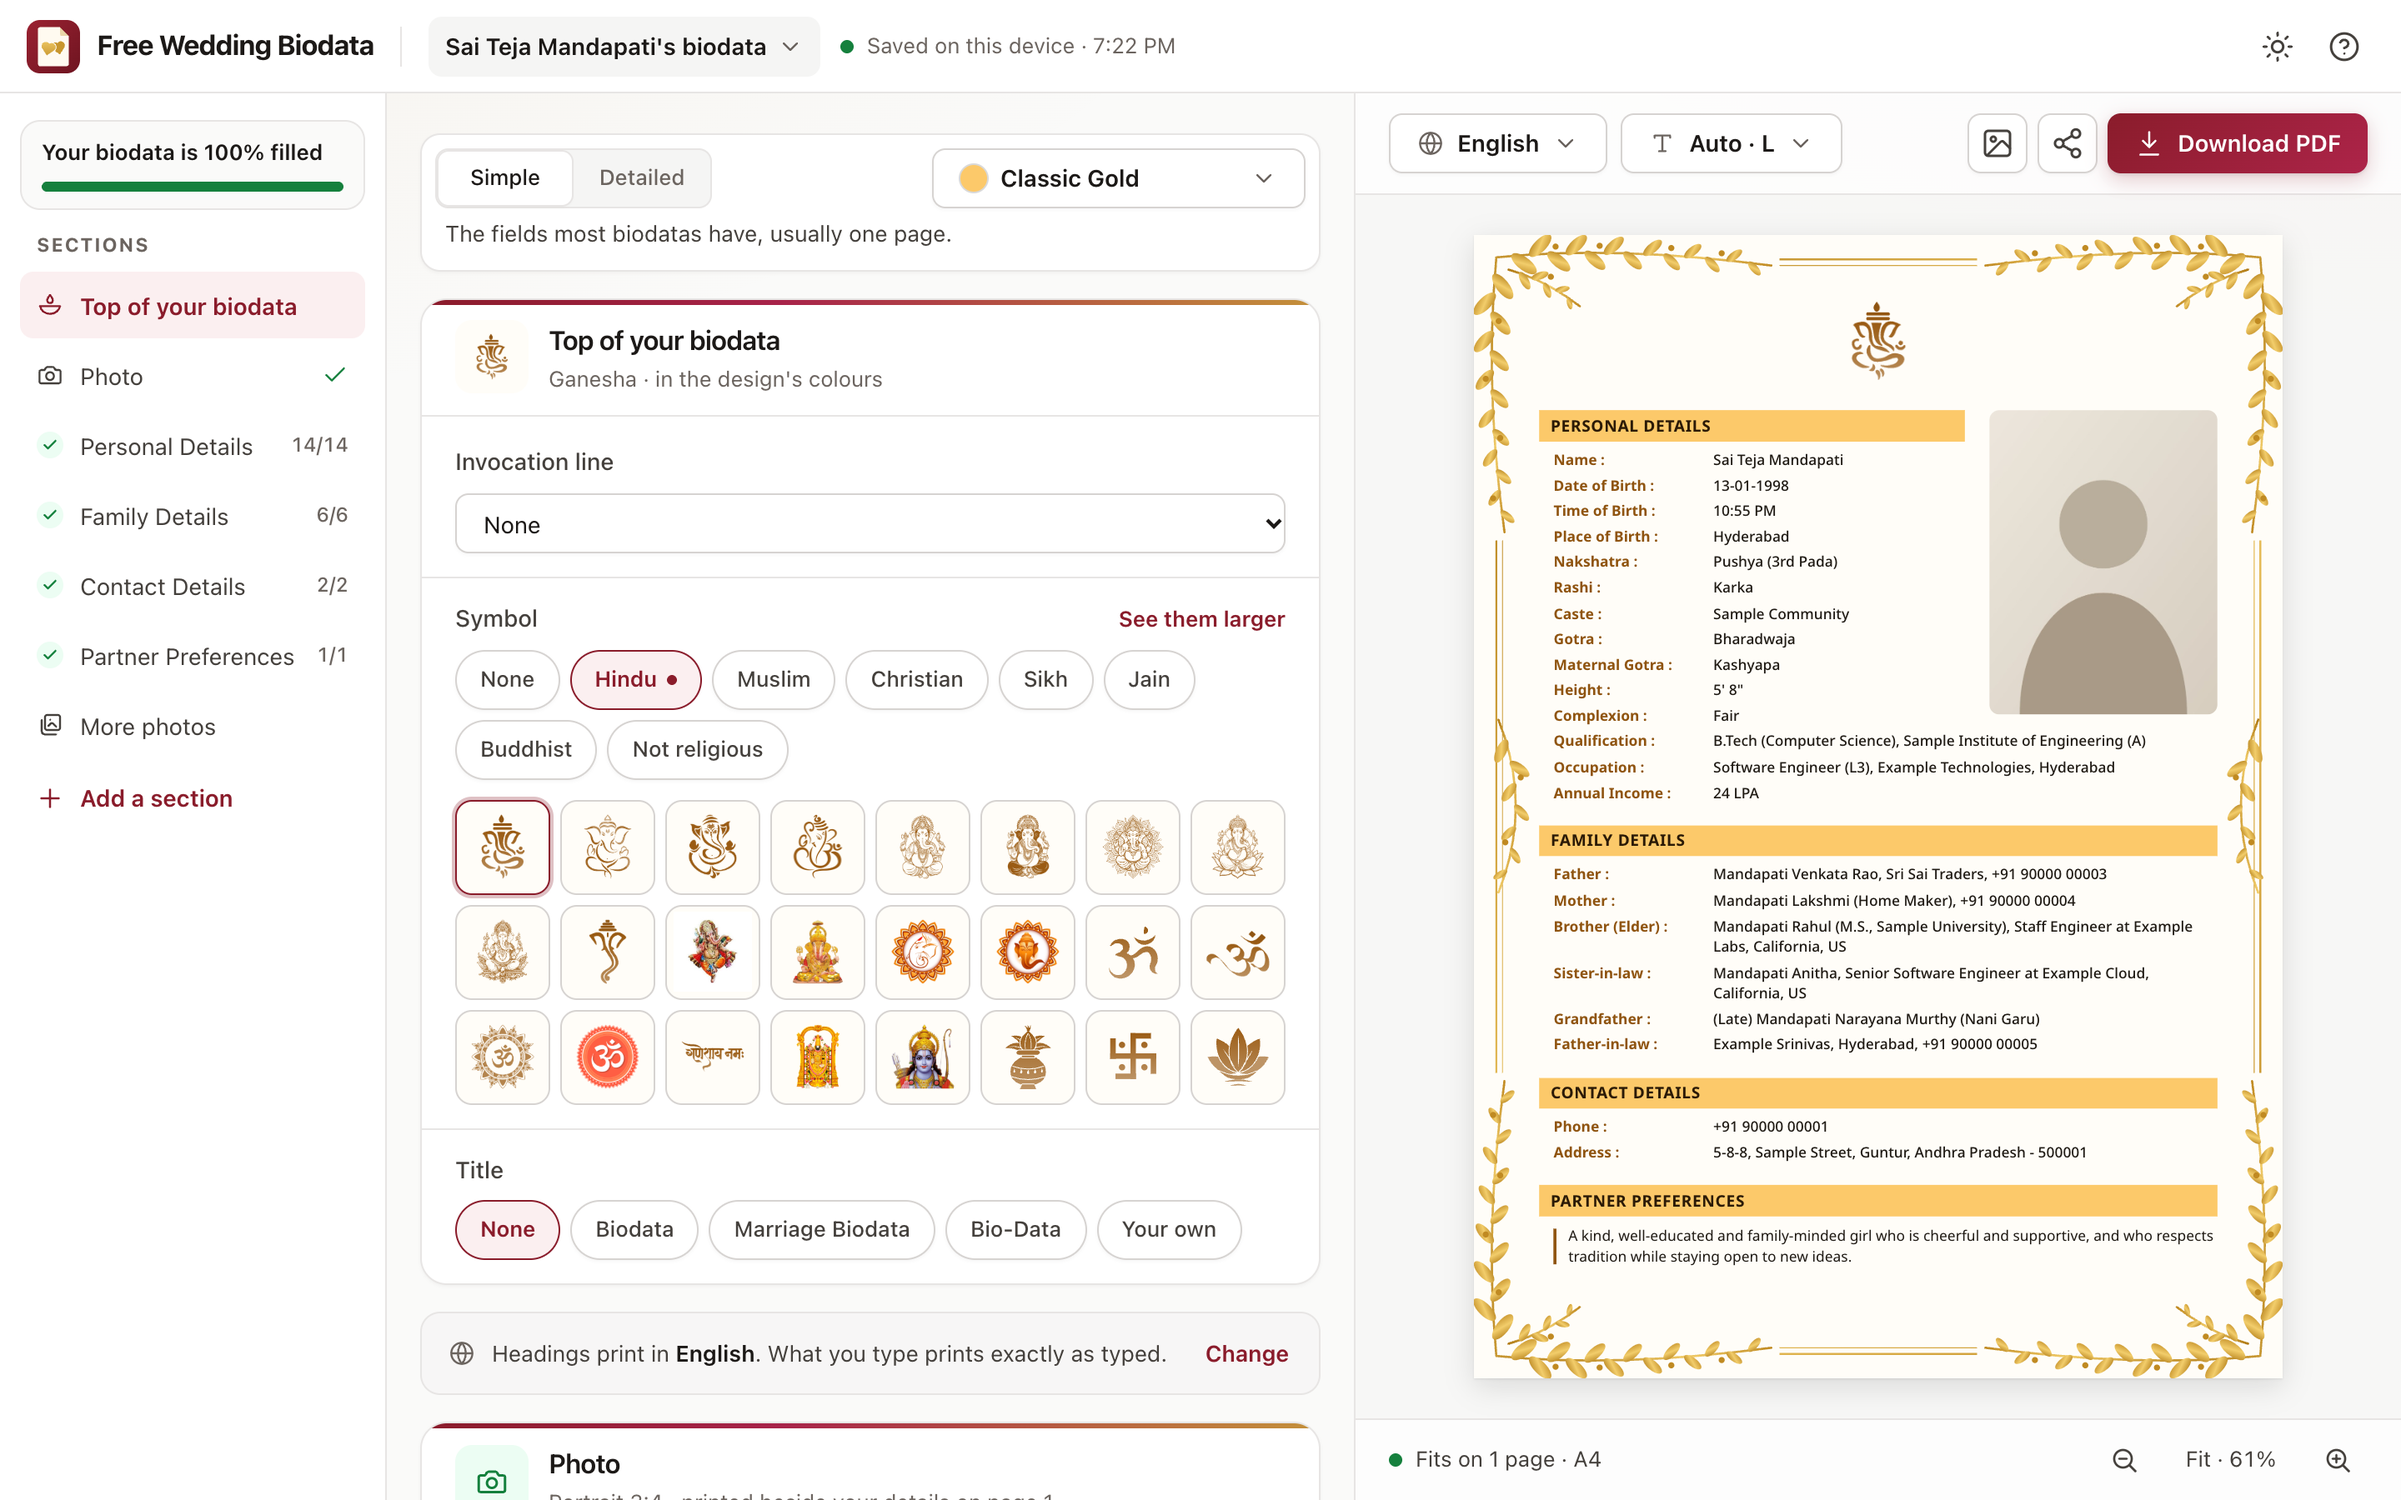
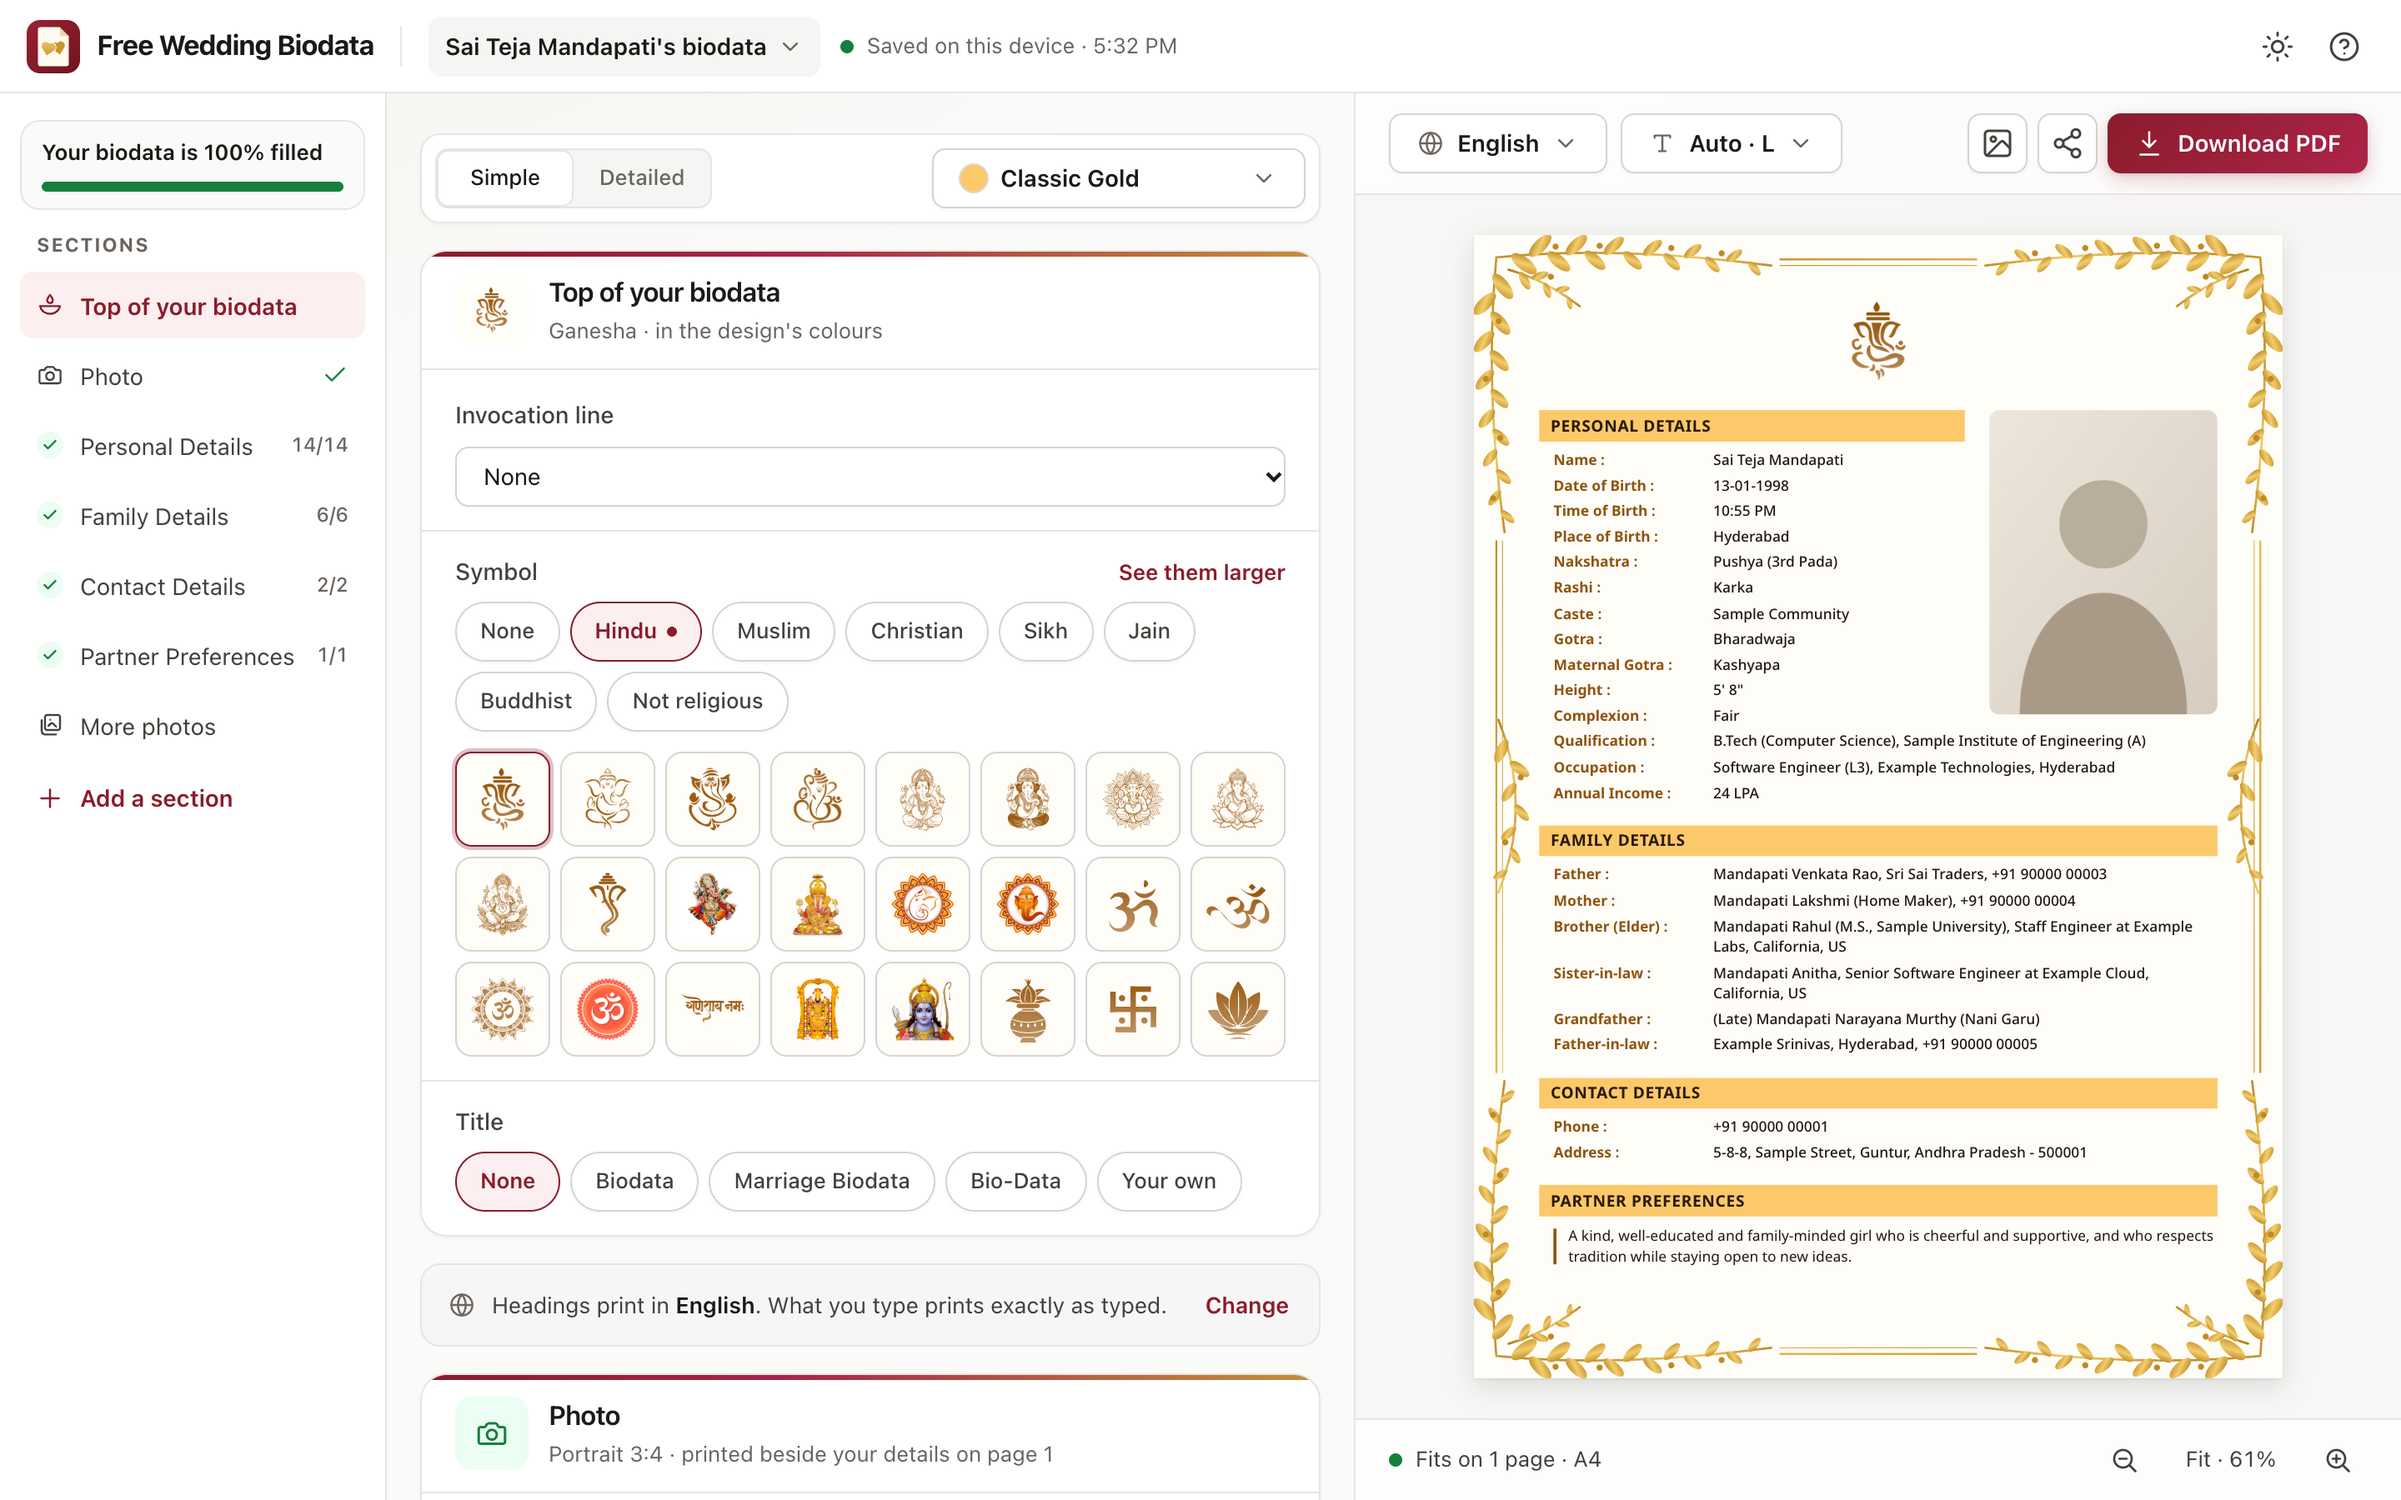
Simple / Detailed bar: drop the visible hint line
The sentence under the switch made the bar untidy (owner's request,
2026-11-24). Screen readers still hear it as the switch's description.
Landing and README pictures retaken.

Changed region(s): [[0.1875, 0.1556, 0.5312, 1.0]]

diff --git a/src/app/editor/FormLayoutSwitch.tsx b/src/app/editor/FormLayoutSwitch.tsx
@@ -36,7 +36,7 @@ export const FormLayoutSwitch = memo(function FormLayoutSwitch({ layout, readOnl
 
   return (
     <div
-      className="flex flex-col gap-2 rounded-xl border border-line bg-surface p-2 shadow-card sm:flex-row sm:items-center sm:gap-3.5 sm:pr-4 lg:flex-wrap lg:gap-y-1.5 lg:pr-2"
+      className="flex flex-col gap-2 rounded-xl border border-line bg-surface p-2 shadow-card sm:flex-row sm:items-center sm:gap-3.5 lg:pr-2"
       data-testid="form-layout"
     >
       <SegmentedControl
@@ -48,8 +48,8 @@ export const FormLayoutSwitch = memo(function FormLayoutSwitch({ layout, readOnl
         className="w-full shrink-0 sm:w-auto [&>button]:min-w-20"
       />
       <div ref={designSlot} className="min-w-0 empty:hidden lg:ml-auto lg:w-56" />
-      {/* On a desktop the hint takes the line under the switch and the design picker. */}
-      <p id={hintId} className="min-w-0 px-1.5 pb-0.5 text-[13.5px] leading-snug text-pretty text-ink-2 sm:p-0 lg:order-last lg:basis-full lg:px-1.5 lg:pb-1">
+      {/* Said by screen readers, not shown (owner's request 2026-11-24: the line made the bar untidy). */}
+      <p id={hintId} className="sr-only">
         {t(`layout.hint.${layout}`)}
       </p>
     </div>
